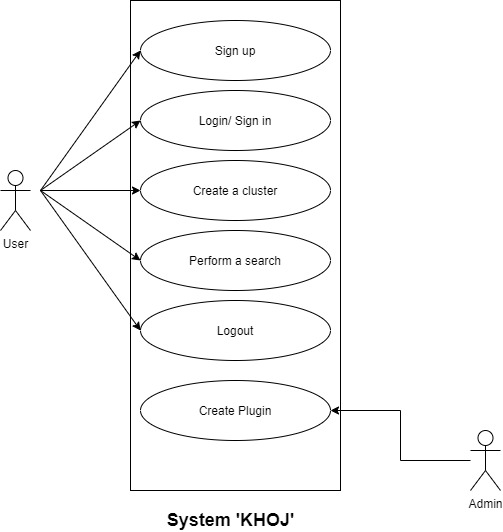
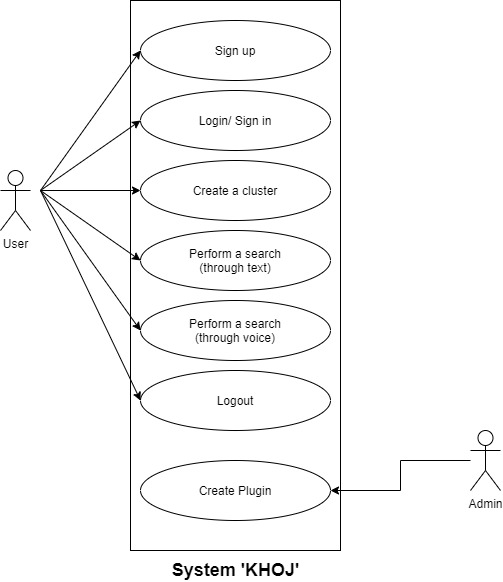
System feature 4.2 Writing and update some texts

diff --git a/SRS/SRS.html b/SRS/SRS.html
@@ -84,13 +84,13 @@
           <div class="dropdown">
             <a style="color: white;" href="#sec4.1" class="dropbtn">System Features</a>
             <div class="dropdown-content">
-              <a href="#sec4.1">Register</a>
+              <a href="#sec4.1">Sign up</a>
               <a href="#sec4.2">Login</a>
-              <a href="#sec4.3">Voice Search</a>
-              <a href="#sec4.4">Bookmark</a>
-              <a href="#sec4.5">Listen to Audio</a>
-              <a href="#sec4.6">Check News Source</a>
-              <a href="#sec4.7">Logout</a>
+              <a href="#sec4.3">Create Clusters</a>
+              <a href="#sec4.4">Perform Text Search</a>
+              <a href="#sec4.5">Perform Voice Search</a>
+              <a href="#sec4.6">Logout</a>
+              <a href="#sec4.7">Create Plugins</a>
             </div>
           </div>
           <br>
@@ -298,33 +298,40 @@
 
         <!--System Features-->
         <h2 style="color:#3f5cab;">4. System Features</h2>
-        <p>The system features stated below are the core building blocks for the Somachar application. However, these
-          are not the only features that the application consists of. Other small but crucial features such as using
-          third party authentication for login are omitted from this section due to its trivial nature</p>
+        <p>The system features stated below are the core building blocks for the 'KHOJ' application. </p>
 
 
 
-        <h4 id="sec4.1">4.1 Register</h4>
+        <h4 id="sec4.1">4.1 Sign up</h4>
 
 
         <strong>Stimulus/ Response Sequences</strong>
         <p>The following expanded use case shows the response sequences between the actor actions and the system
           responses.
-          <li>Use Case Name: Register</li>
-          <li>Actor: User</li>
-          <li>Type: Primary</li>
-          <li>Overview: Register / Create new account in the website.</li>
+          <li> <b> Use Case </b> :  </li>
+          <li> <b> Preconditions </b> :  </li>
+          <li> <b> Actors </b> :  </li>
+          <li> <b> Goal </b> :  </li>
         </p>
 
-        Typical Course of Actions:
+        <p> <b> Overview </b>:  </p>
 
-        <img src="src/uc_register.PNG" alt="KotoUI" style="width:95%"> <!-- Table 1.0 -->
+        <p> <b> Cross Reference </b> :  </p>
+
+        <b> Typical Course of Events: </b> <br>
+
+        <img src="src/uc_register.PNG" alt="KotoUI" style="width:75%"> <!-- Table 1.0 -->
         <p style="font-size:90%"><i>Table 1.0 : Typical Course of Events </i></p>
 
-        <p>Alternate Course of Actions:<br>**Refers to Table 1.0
-        <p>Exception: <br>
-          1) The user fill unformatted information <br>
-          2) Server is down so form did not reach to database server
+        <p> <b> Alternate Course of Actions </b>:  <br>
+        <b> Write here!! </b> </p>
+        
+        <p>
+          <b>Exception</b>:
+            <ul>
+                <li> Write here if there is any, else remove this! </li>
+            </ul>
+           
         </p>
 
 
@@ -337,131 +344,194 @@
         <strong>Stimulus/ Response Sequences</strong>
         <p>The following expanded use case shows the response sequences between the actor actions and the system
           responses.
-          <li>Use Case Name: Login</li>
-          <li>Actor: User</li>
-          <li>Type: Secondary</li>
-          <li>Overview: Allows user to log in to the app / website to access the synced bookmarks</li>
+          <li> <b> Use Case </b> : Login </li>
+          <li> <b> Preconditions </b> : The user must register or sign up first to login to the system. </li>
+          <li> <b> Actors </b> : User </li>
+          <li> <b> Goal </b> : Create clusters and make search to get desired result. </li>
         </p>
 
-        Typical Course of Actions:
+        <p> <b> Overview </b>: A user has to login to the system first to use the features of the system.
+        For login, a user can use google account credentials. Once logged in, a user is ready to create clusters and make search 
+        attempts within the created clusters to get desired search results. </p>
 
-        <img src="src/uc_login.PNG" alt="KotoUI" style="width:95%"> <!-- Table 2.0 -->
-        <p style="font-size:90%"><i>Table 2.0 : Typical Course of Events </i></p>
+        <p> <b> Cross Reference </b> : Not applicable. </p>
 
-        <p>Alternate Course of Actions:<br>**Refers to Table 2.0
+        <b> Typical Course of Events: </b> <br>
+
+        <img src="src/UseCaselogin.jpg" alt="KotoUI" style="width:75%"> <!-- Table 2.0 -->
+        <p style="font-size:80%"><i>Table 2.0 : Typical Course of Events </i></p>
+
+        <p> <b> Alternate Course of Actions </b>:  <br>
+        <b> Steps 4 and 5 </b> - The user might provide wrong credentials of Google account. So, the user will be taken back to login page again. </p>
+        
+        
+        
         <p>
-          Exception:<br>
-          1) The user will unformatted information<br>
-          2) Server is down so form did not reach to database server
+          <b>Exception</b>:
+            <ul>
+                <li> If Goolge is down, the user is unable to login. </li>
+            </ul>
+           
         </p>
 
 
-        <h4 id="sec4.3">4.3 Voice Search</h4>
+        <h4 id="sec4.3">4.3 Create Clusters </h4>
 
 
         <strong>Stimulus/ Response Sequences</strong>
         <p>The following expanded use case shows the response sequences between the actor actions and the system
           responses.
-          <li>Use Case Name: Voice Search</li>
-          <li>Actor: User</li>
-          <li>Type: Primary</li>
-          <li>Overview: Allows user to search their deisred news via voice </li>
+          <li> <b> Use Case </b> :  </li>
+          <li> <b> Preconditions </b> :  </li>
+          <li> <b> Actors </b> :  </li>
+          <li> <b> Goal </b> :  </li>
         </p>
 
-        Typical Course of Actions:
-        <img src="src/uc_voicesearch.PNG" alt="KotoUI" style="width:95%"> <!-- Table 3.0 -->
+        <p> <b> Overview </b>:  </p>
+
+        <p> <b> Cross Reference </b> :  </p>
+
+        <b> Typical Course of Events: </b> <br>
+
+        <img src="src/uc_register.PNG" alt="KotoUI" style="width:75%"> <!-- Table 1.0 -->
         <p style="font-size:90%"><i>Table 3.0 : Typical Course of Events </i></p>
 
+        <p> <b> Alternate Course of Actions </b>:  <br>
+        <b> Write here!! </b> </p>
+        
         <p>
-          Exception: <br>
-          1) User is not connected to the internet so system wonâ€™t be able to connect to the API <br>
-          2) User is not speaking native Bangla / English which our targeted API wonâ€™t recognize <br>
-          3) User is not speaking anything related to news so no match will come
-
-
+          <b>Exception</b>:
+            <ul>
+                <li> Write here if there is any, else remove this! </li>
+            </ul>
+           
         </p>
 
-        <h4 id="sec4.4">4.4 Bookmark</h4>
+        <h4 id="sec4.4">4.4 Perform Text Search </h4>
+
         <strong>Stimulus/ Response Sequences</strong>
         <p>The following expanded use case shows the response sequences between the actor actions and the system
           responses.
-          <li>Use Case Name: Bookmark</li>
-          <li>Actor: User</li>
-          <li>Type: Primary</li>
-          <li>Overview: Allows user to bookmark a specific page for future readings </li>
+          <li> <b> Use Case </b> :  </li>
+          <li> <b> Preconditions </b> :  </li>
+          <li> <b> Actors </b> :  </li>
+          <li> <b> Goal </b> :  </li>
         </p>
 
-        Typical Course of Actions:
-        <img src="src/uc_bookmark.PNG" alt="KotoUI" style="width:95%"> <!-- Table 3.0 -->
+        <p> <b> Overview </b>:  </p>
+
+        <p> <b> Cross Reference </b> :  </p>
+
+        <b> Typical Course of Events: </b> <br>
+
+        <img src="src/uc_register.PNG" alt="KotoUI" style="width:75%"> <!-- Table 1.0 -->
         <p style="font-size:90%"><i>Table 4.0 : Typical Course of Events </i></p>
 
-        <p> Exception : <br>
-          1) User is not logged in so the bookmark bar wonâ€™t appear <br>
-          2) User is not connected to the internet so the bookmarks wonâ€™t be synced
+        <p> <b> Alternate Course of Actions </b>:  <br>
+        <b> Write here!! </b> </p>
+        
+        <p>
+          <b>Exception</b>:
+            <ul>
+                <li> Write here if there is any, else remove this! </li>
+            </ul>
+           
         </p>
 
-        <h4 id="sec4.5">4.5 Listen to Audio</h4>
+
+        <h4 id="sec4.5">4.5 Perform Voice Search </h4>
+
         <strong>Stimulus/ Response Sequences</strong>
         <p>The following expanded use case shows the response sequences between the actor actions and the system
           responses.
-          <li>Use Case Name: Listen to Audio</li>
-          <li>Actor: User</li>
-          <li>Type: Primary</li>
-          <li>Overview: Allows user to listen to news article </li>
+          <li> <b> Use Case </b> :  </li>
+          <li> <b> Preconditions </b> :  </li>
+          <li> <b> Actors </b> :  </li>
+          <li> <b> Goal </b> :  </li>
         </p>
 
-        Typical Course of Actions:
-        <img src="src/uc_listentoaudio.PNG" alt="KotoUI" style="width:95%"> <!-- Table 3.0 -->
+        <p> <b> Overview </b>:  </p>
+
+        <p> <b> Cross Reference </b> :  </p>
+
+        <b> Typical Course of Events: </b> <br>
+
+        <img src="src/uc_register.PNG" alt="KotoUI" style="width:75%"> <!-- Table 1.0 -->
         <p style="font-size:90%"><i>Table 5.0 : Typical Course of Events </i></p>
-        <p>
-          Exception:<br>
-          1) User is not connected to the internet so system cannot contact the API
 
+        <p> <b> Alternate Course of Actions </b>:  <br>
+        <b> Write here!! </b> </p>
+        
+        <p>
+          <b>Exception</b>:
+            <ul>
+                <li> Write here if there is any, else remove this! </li>
+            </ul>
+           
         </p>
 
 
 
-        <h4 id="sec4.6">4.6 Check News Source</h4>
+        <h4 id="sec4.6">4.6 Logout</h4>
+
         <strong>Stimulus/ Response Sequences</strong>
         <p>The following expanded use case shows the response sequences between the actor actions and the system
           responses.
-          <li>Use Case Name: Check Source</li>
-          <li>Actor: User</li>
-          <li>Type: Primary</li>
-          <li>Overview: Allows user to check the source of news article </li>
+          <li> <b> Use Case </b> :  </li>
+          <li> <b> Preconditions </b> :  </li>
+          <li> <b> Actors </b> :  </li>
+          <li> <b> Goal </b> :  </li>
         </p>
 
-        Typical Course of Actions:
-        <img src="src/uc_checksource.PNG" alt="KotoUI" style="width:95%"> <!-- Table 3.0 -->
+        <p> <b> Overview </b>:  </p>
+
+        <p> <b> Cross Reference </b> :  </p>
+
+        <b> Typical Course of Events: </b> <br>
+
+        <img src="src/uc_register.PNG" alt="KotoUI" style="width:75%"> <!-- Table 1.0 -->
         <p style="font-size:90%"><i>Table 6.0 : Typical Course of Events </i></p>
+
+        <p> <b> Alternate Course of Actions </b>:  <br>
+        <b> Write here!! </b> </p>
+        
         <p>
-
-          Exception: <br>
-          1) System cannot connect to the database <br>
-          2) User has no internet connection to receive the response
-
+          <b>Exception</b>:
+            <ul>
+                <li> Write here if there is any, else remove this! </li>
+            </ul>
+           
         </p>
 
-        <h4 id="sec4.7">4.7 Logout</h4>
+        <h4 id="sec4.7">4.7 Create Plugins </h4>
+        
         <strong>Stimulus/ Response Sequences</strong>
         <p>The following expanded use case shows the response sequences between the actor actions and the system
           responses.
-          <li>Use Case Name: Logout</li>
-          <li>Actor: User</li>
-          <li>Type: Secondary</li>
-          <li>Overview: Allows user to logout</li>
+          <li> <b> Use Case </b> :  </li>
+          <li> <b> Preconditions </b> :  </li>
+          <li> <b> Actors </b> :  </li>
+          <li> <b> Goal </b> :  </li>
         </p>
 
-        Typical Course of Actions:
-        <img src="src/uc_logout.PNG" alt="KotoUI" style="width:95%"> <!-- Table 3.0 -->
+        <p> <b> Overview </b>:  </p>
+
+        <p> <b> Cross Reference </b> :  </p>
+
+        <b> Typical Course of Events: </b> <br>
+
+        <img src="src/uc_register.PNG" alt="KotoUI" style="width:75%"> <!-- Table 1.0 -->
         <p style="font-size:90%"><i>Table 7.0 : Typical Course of Events </i></p>
+
+        <p> <b> Alternate Course of Actions </b>:  <br>
+        <b> Write here!! </b> </p>
+        
         <p>
-
-          Exception : <br>
-          1) Server is down so system can not remove bookmarks <br>
-          2) If there is no internet connection user can not log out successfully
-
-
+          <b>Exception</b>:
+            <ul>
+                <li> Write here if there is any, else remove this! </li>
+            </ul>
+           
         </p>
 
 
